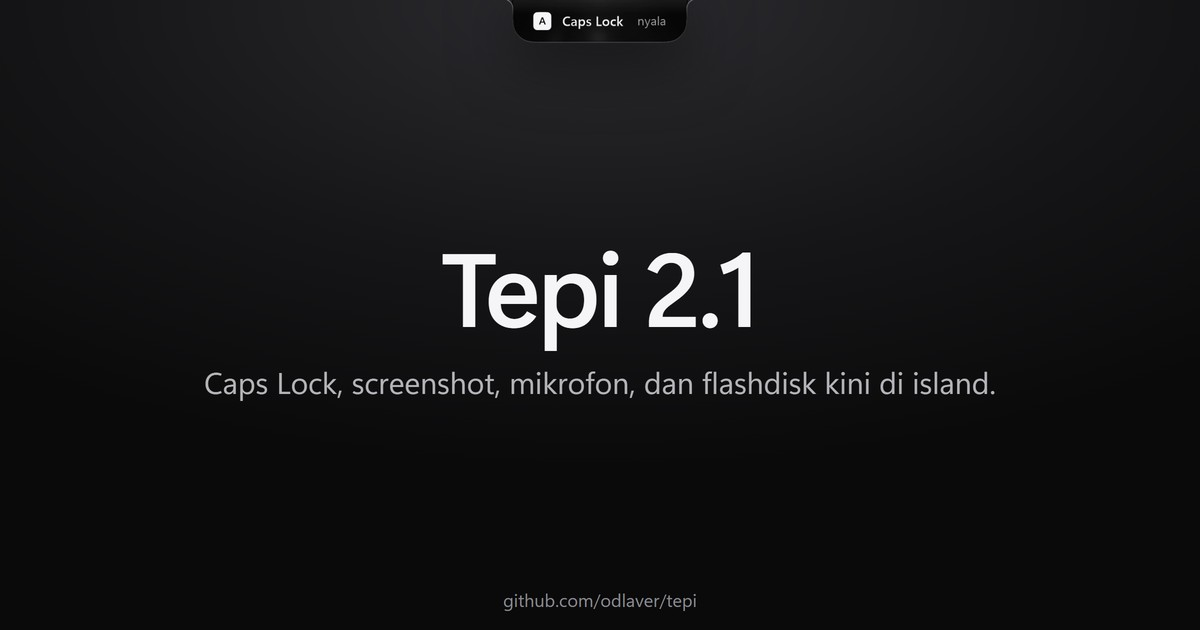
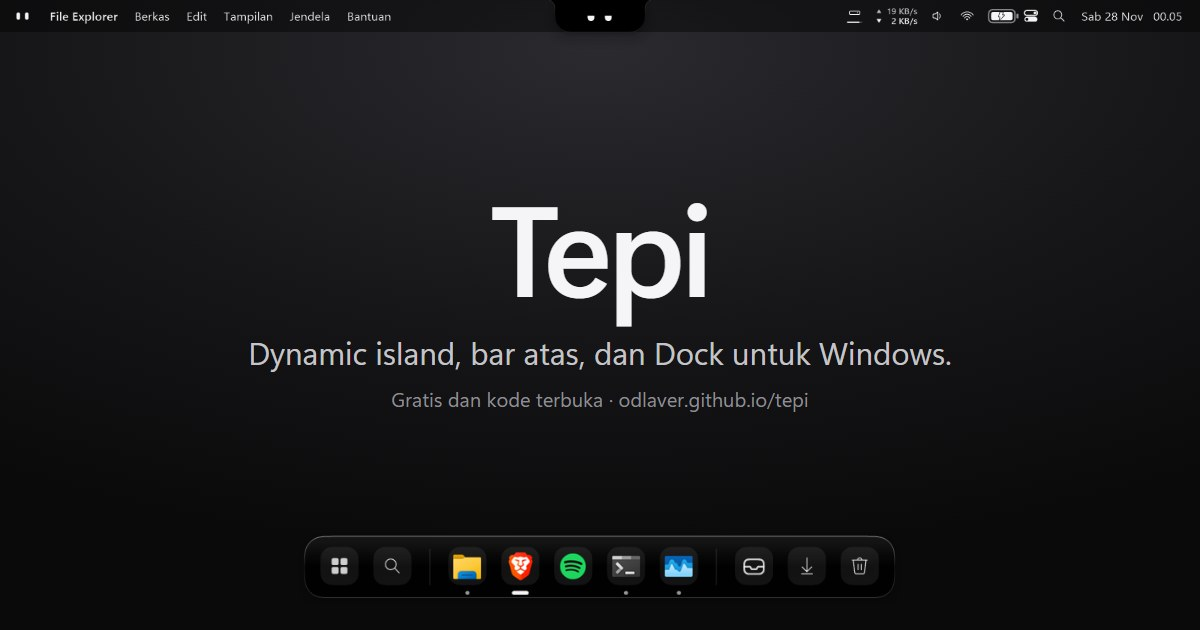
Situs ikut Tepi 2.6.3: OG umum tanpa versi dan daftar yang baru

diff --git a/index.html b/index.html
@@ -17,17 +17,17 @@
 <meta property="og:site_name" content="Tepi">
 <meta property="og:locale" content="id_ID">
 <meta property="og:locale:alternate" content="en_US">
-<meta property="og:title" content="Tepi 2.6.2: dynamic island dan Dock untuk Windows">
-<meta property="og:description" content="Baru di 2.6.2: perintah suara tanpa menekan tombol, dan panduan yang menyiapkan dikte serta AI langkah demi langkah. Gratis dan kode terbuka.">
+<meta property="og:title" content="Tepi: dynamic island, bar atas, dan Dock untuk Windows">
+<meta property="og:description" content="Island di tepi atas layar untuk lagu, pesan, agent coding, dan timer, plus bar atas dan Dock pilihan. Ringan, gratis, dan kode terbuka.">
 <meta property="og:url" content="https://odlaver.github.io/tepi/">
-<meta property="og:image" content="https://odlaver.github.io/tepi/assets/img/og-262.jpg">
+<meta property="og:image" content="https://odlaver.github.io/tepi/assets/img/og.jpg">
 <meta property="og:image:width" content="1200">
 <meta property="og:image:height" content="630">
-<meta property="og:image:alt" content="Tepi 2.6.2: island di tepi atas layar dan Dock di tepi bawah">
+<meta property="og:image:alt" content="Tepi: bar atas dengan island sebagai notch, dan Dock di tepi bawah">
 <meta name="twitter:card" content="summary_large_image">
-<meta name="twitter:title" content="Tepi 2.6.2: dynamic island dan Dock gratis untuk Windows 10 dan 11">
-<meta name="twitter:description" content="Baru di 2.6.2: perintah suara tanpa menekan tombol, dan panduan yang menyiapkan dikte serta AI langkah demi langkah. Gratis dan kode terbuka.">
-<meta name="twitter:image" content="https://odlaver.github.io/tepi/assets/img/og-262.jpg">
+<meta name="twitter:title" content="Tepi: dynamic island, bar atas, dan Dock gratis untuk Windows 10 dan 11">
+<meta name="twitter:description" content="Island di tepi atas layar untuk lagu, pesan, agent coding, dan timer, plus bar atas dan Dock pilihan. Ringan, gratis, dan kode terbuka.">
+<meta name="twitter:image" content="https://odlaver.github.io/tepi/assets/img/og.jpg">
 <script type="application/ld+json">
 {
   "@context": "https://schema.org",
@@ -37,7 +37,7 @@
   "description": "Dynamic island dan Dock untuk Windows 10 dan 11: lagu dan lirik, pesan, agent coding, tugas, timer, dikte, dan Dock yang bisa menggantikan taskbar.",
   "url": "https://odlaver.github.io/tepi/",
   "downloadUrl": "https://github.com/odlaver/tepi/releases/latest/download/Tepi.exe",
-  "softwareVersion": "2.6.2",
+  "softwareVersion": "2.6.3",
   "fileSize": "1869 KB",
   "operatingSystem": "Windows 10, Windows 11",
   "applicationCategory": "UtilitiesApplication",
@@ -45,7 +45,7 @@
   "isAccessibleForFree": true,
   "license": "https://github.com/odlaver/tepi/blob/main/LICENSE",
   "codeRepository": "https://github.com/odlaver/tepi",
-  "image": "https://odlaver.github.io/tepi/assets/img/og-262.jpg",
+  "image": "https://odlaver.github.io/tepi/assets/img/og.jpg",
   "screenshot": "https://odlaver.github.io/tepi/assets/img/p-ringkasan.webp",
   "offers": { "@type": "Offer", "price": "0", "priceCurrency": "IDR" },
   "author": {
@@ -77,7 +77,7 @@
 <main id="top">
   <section class="hero" id="hero">
     <div class="wrap hero-copy">
-      <p class="kicker"><button type="button" class="kicker-new js-news" aria-haspopup="dialog">Tepi 2.6.2<span class="kicker-cue" data-i18n="news.open">Lihat yang baru</span></button></p>
+      <p class="kicker"><button type="button" class="kicker-new js-news" aria-haspopup="dialog">Tepi 2.6.3<span class="kicker-cue" data-i18n="news.open">Lihat yang baru</span></button></p>
       <h1 data-i18n="hero.title">Dynamic island dan Dock untuk Windows.</h1>
       <p class="lead" data-i18n="hero.lead">Island di tepi atas untuk lagu, pesan, dan agent coding. Dock di tepi bawah untuk aplikasi, dan bisa menggantikan taskbar.</p>
       <div class="cta">
@@ -91,7 +91,7 @@
             <span data-i18n="cta.android">Unduh untuk Android</span>
           </a>
         </div>
-        <p class="meta"><span data-i18n="meta.free">Gratis</span> · v<span class="js-version"><span class="ver-main">2.6</span><span class="ver-tail">.2</span></span> · <span class="js-size">1.869 KB</span> · <span data-i18n="meta.os">Windows 10 dan 11</span><span class="js-dl-win" hidden> · <span class="js-n"></span> <span data-i18n="meta.dl">unduhan</span></span> · <a class="link" href="https://github.com/odlaver/tepi" data-i18n="hero.source">Kode sumber</a></p>
+        <p class="meta"><span data-i18n="meta.free">Gratis</span> · v<span class="js-version"><span class="ver-main">2.6</span><span class="ver-tail">.3</span></span> · <span class="js-size">1.976 KB</span> · <span data-i18n="meta.os">Windows 10 dan 11</span><span class="js-dl-win" hidden> · <span class="js-n"></span> <span data-i18n="meta.dl">unduhan</span></span> · <a class="link" href="https://github.com/odlaver/tepi" data-i18n="hero.source">Kode sumber</a></p>
         <p class="platform" hidden data-i18n="note.platform">Tepi tersedia untuk Windows 10 dan 11, serta Android 8 ke atas.</p>
       </div>
     </div>
@@ -100,7 +100,7 @@
         <img src="assets/img/p-ringkasan.webp?v=262" width="588" height="370" decoding="async" fetchpriority="high" alt="Panel Ringkasan Tepi: lagu yang diputar, agen yang bekerja, kelas berikutnya, dan pesan" data-i18n-alt="alt.hero">
         <img class="hero-dock" src="assets/img/dock.webp?v=262" width="1035" height="73" decoding="async" alt="Dock Tepi di tepi bawah: lagu, timer fokus, Start, aplikasi yang disematkan, tray, dan jam" data-i18n-alt="alt.dock">
       </div></div>
-      <figcaption class="cap" data-i18n="hero.update">Baru di 2.6.2: Dengarkan terus tanpa menekan tombol, perintah perangkat lewat suara, dan halaman yang menyiapkan dikte serta AI.</figcaption>
+      <figcaption class="cap" data-i18n="hero.update">Baru di 2.6.3: tampilan bar atas, jendela lirik, serta Unduhan dan Recycle Bin di Dock.</figcaption>
     </figure>
   </section>
 
@@ -429,7 +429,7 @@
         </li>
       </ul>
       <div class="perf-foot">
-        <p class="exe"><b class="js-size">1.869 KB</b> <span data-i18n="perf.exe">satu file exe, tanpa instalasi.</span></p>
+        <p class="exe"><b class="js-size">1.976 KB</b> <span data-i18n="perf.exe">satu file exe, tanpa instalasi.</span></p>
         <p class="note" data-i18n="perf.frame">Membuka panel dan pindah tab rata-rata 3–6 ms per frame. Saat pindah tab beruntun, frame terlama 14 ms, di bawah 16,7 ms untuk 60 fps; gambar pertama sebuah halaman bisa sampai 39 ms.</p>
         <p class="note" data-i18n="perf.note">Diukur 17 November 2026 di laptop Intel Core i3-1115G4 yang sedang menjalankan pekerjaan lain: tiap kondisi dibiarkan tenang 4 detik, lalu diukur 8 detik, median dari 3 putaran. Persen CPU dihitung terhadap satu core. Saat panel terbuka memori naik ke sekitar 18 sampai 27 MB, lalu turun lagi setelah panel ditutup.</p>
       </div>
@@ -491,14 +491,14 @@
           <span data-i18n="cta.android">Unduh untuk Android</span>
         </a>
       </div>
-      <p class="meta"><span data-i18n="meta.free">Gratis</span> · v<span class="js-version"><span class="ver-main">2.6</span><span class="ver-tail">.2</span></span> · <span class="js-size">1.869 KB</span><span class="js-dl-win" hidden> · <span class="js-n"></span> <span data-i18n="meta.dl">unduhan</span></span></p>
-      <p class="again" data-i18n="dl.again">Sudah memasang Tepi? Klik kanan ikon Tepi, lalu Perbarui ke Tepi 2.6.2. Berikutnya cukup Pengaturan › Tentang › Cek pembaruan.</p>
+      <p class="meta"><span data-i18n="meta.free">Gratis</span> · v<span class="js-version"><span class="ver-main">2.6</span><span class="ver-tail">.3</span></span> · <span class="js-size">1.976 KB</span><span class="js-dl-win" hidden> · <span class="js-n"></span> <span data-i18n="meta.dl">unduhan</span></span></p>
+      <p class="again" data-i18n="dl.again">Sudah memasang Tepi? Klik kanan ikon Tepi, lalu Perbarui ke Tepi 2.6.3. Berikutnya cukup Pengaturan › Tentang › Cek pembaruan.</p>
       <p class="platform" hidden data-i18n="note.platform">Tepi tersedia untuk Windows 10 dan 11, serta Android 8 ke atas.</p>
       <dl class="facts">
         <div><dt data-i18n="dl.req">Syarat</dt><dd data-i18n="dl.req.d">Windows 10 versi 2004 atau lebih baru, atau Windows 11, 64-bit. .NET Framework 4.8 sudah bawaan Windows.</dd></div>
         <div><dt>SmartScreen</dt><dd data-i18n="dl.ss.d">Exe belum ditandatangani, jadi Windows SmartScreen bisa memunculkan peringatan. Pilih More info, lalu Run anyway.</dd></div>
         <div><dt data-i18n="dl.apk">Tepi Android</dt><dd data-i18n="dl.apk.d">APK Lite untuk Android 8 ke atas, prosesor apa pun. Varian Full menambahkan terjemahan di HP dan khusus arm64. Di Android 13 ke atas, buka Info aplikasi › ⋮ › Izinkan setelan terbatas sebelum memberi akses notifikasi.</dd></div>
-        <div><dt>SHA-256 Tepi.exe</dt><dd class="sha"><code class="js-sha">FACE9C762CB2DB5E677A19AE87CB5702E63B478F27B1D5C7B27F936BD13320D9</code><button type="button" class="btn-ghost" id="copy" data-i18n="dl.copy">Salin</button></dd></div>
+        <div><dt>SHA-256 Tepi.exe</dt><dd class="sha"><code class="js-sha">F54EDC0FFFFE49DE853153A8A8B78D796740881EEB0F9EA6BCC08D14C0B6DF53</code><button type="button" class="btn-ghost" id="copy" data-i18n="dl.copy">Salin</button></dd></div>
       </dl>
       <a class="link" href="https://github.com/odlaver/tepi/releases" data-i18n="dl.releases">Semua rilis</a>
       <div class="coffee">
@@ -541,18 +541,14 @@
 
 <dialog class="qris news" id="news" aria-labelledby="news-title">
   <div class="mag mag-q"><div class="isle inline" id="isle-n" data-isle aria-hidden="true"></div></div>
-  <h2 class="qris-title" id="news-title"><span data-i18n="news.title">Yang baru di Tepi</span> 2.6.2</h2>
+  <h2 class="qris-title" id="news-title"><span data-i18n="news.title">Yang baru di Tepi</span> 2.6.3</h2>
   <p class="news-count js-dl-win" hidden><span data-i18n="news.count.a">Sudah diunduh</span> <b class="js-n"></b> <span data-i18n="news.count.b">kali, dari semua rilis Windows</span></p>
   <ul class="news-list">
-    <li><b data-i18n="news.1">Siapkan suara dan AI</b><span data-i18n="news.1.d">Halaman baru di Pengaturan yang mengecek mikrofon, mesin dikte, layanan teks, dan pengenal ucapan, lalu memandu yang kurang: key Groq gratis, model offline, Ollama, atau layanan lain.</span></li>
-    <li><b data-i18n="news.2">Dengarkan terus</b><span data-i18n="news.2.d">Ucapkan "Tepi, pause", "Tepi, open Spotify", atau "Tepi, turn on wifi" tanpa menekan tombol. Dikenali offline, dalam bahasa Inggris.</span></li>
-    <li><b data-i18n="news.3">Perintah perangkat dan lagu</b><span data-i18n="news.3.d">Suruh Tepi menyalakan Wi-Fi dan Bluetooth, mengatur kecerahan, membuka aplikasi, dan memutar lagu dari judulnya.</span></li>
-    <li><b data-i18n="news.4">Lagu favorit</b><span data-i18n="news.4.d">Tempel tautan YouTube di Pengaturan › Musik, lalu bilang "putar lagu biasa".</span></li>
-    <li><b data-i18n="news.5">Pesan yang menunjukkan jalan</b><span data-i18n="news.5.d">Saat dikte, rapat, atau Dengarkan terus belum bisa jalan, notifikasinya menyebut sebabnya. Klik untuk membuka tempat memperbaikinya.</span></li>
-    <li><b data-i18n="news.9">Dock lebih lengkap</b><span data-i18n="news.9.d">Pengaturan cepat bergaya Windows 11, pencarian Start yang paham singkatan seperti "wa" untuk WhatsApp dan bisa mencari berkas, serta jendela yang mengecil masuk ke ikonnya saat diminimalkan.</span></li>
-    <li><b data-i18n="news.7">Dari laporan pengguna</b><span data-i18n="news.7.d">Kirim saran terkirim lagi, Dock tetap di atas jendela lain, menu tertutup saat diklik di luar, klik ikon aplikasi yang di depan untuk meminimalkannya, dan tile Wi-Fi menyebut nama jaringan.</span></li>
-    <li><b data-i18n="news.8">Coret di Edit gambar</b><span data-i18n="news.8.d">Coret bebas di atas screenshot dengan pilihan warna dan ketebalan, lalu urungkan per langkah. Kontribusi dari movlution.</span></li>
-    <li><b data-i18n="news.6">Lebih halus</b><span data-i18n="news.6.d">Toggle dan Pengaturan bergerak lebih halus, lingkaran pengirim memakai warna aplikasinya, dan yang terhapus bisa diurungkan selama 5 detik.</span></li>
+    <li><b data-i18n="news.1">Tampilan bar atas</b><span data-i18n="news.1.d">Bar di tepi atas dengan menu aplikasi, status, dan jam, dan island jadi notch di tengahnya. Jendela berhenti di bawah bar, atau bar sembunyi sampai kursor menyentuh tepi atas. Pilih di Pengaturan › Dock; Biasa mengembalikan setelan lamamu.</span></li>
+    <li><b data-i18n="news.2">Jendela lirik</b><span data-i18n="news.2.d">Lirik pindah ke jendela sendiri yang bisa digeser dan diubah ukurannya, berlatar sampul album, kaca, atau tembus. Klik kanan satu baris untuk menyamakan waktunya.</span></li>
+    <li><b data-i18n="news.3">Volume, Rak, Unduhan, dan Recycle Bin di Dock</b><span data-i18n="news.3.d">Gulir di atas ikon aplikasi untuk mengatur volumenya. Jatuhkan berkas ke Rak atau Recycle Bin, dan klik Unduhan untuk sepuluh berkas terbaru.</span></li>
+    <li><b data-i18n="news.4">Disk dan kecepatan internet</b><span data-i18n="news.4.d">Widget baru di Dock dan bar atas: sisa ruang tiap disk dan kecepatan unduh serta unggah.</span></li>
+    <li><b data-i18n="news.5">Suruh Tepi mengatur Tepi</b><span data-i18n="news.5.d">Bilang "Tepi, buka pengaturan dock", "buka jendela lirik", "Tepi, pakai bar atas", atau "Tepi, buka rak". Jalan tanpa internet.</span></li>
     <li class="news-sub" data-i18n="news.android">Tepi Android 2.6.0</li>
     <li><b data-i18n="news.a1">Pas saat HP dimiringkan dan di tablet</b><span data-i18n="news.a1.d">Island melayang tepat di tengah atas, tidak lagi meleset dari kamera.</span></li>
     <li><b data-i18n="news.a2">Hilang di layar penuh</b><span data-i18n="news.a2.d">Selama video dan game, island hilang sepenuhnya dan tidak menghalangi sentuhan. Pesan menunggu lalu muncul sesudahnya, panggilan masuk tetap tampil.</span></li>
@@ -561,7 +557,7 @@
     <li><b data-i18n="news.a5">Lite dan Full</b><span data-i18n="news.a5.d">Lite di bawah 1 MB untuk Android 8 ke atas, prosesor apa pun. Full menambahkan terjemahan di HP. Ada juga Suruh Tepi, mode hemat, dan cek pembaruan.</span></li>
   </ul>
   <form method="dialog" class="qris-actions">
-    <a class="btn btn-md js-dl" data-goatcounter-click="unduh-news" href="https://github.com/odlaver/tepi/releases/latest/download/Tepi.exe" data-i18n="news.dl">Unduh Tepi 2.6.2</a>
+    <a class="btn btn-md js-dl" data-goatcounter-click="unduh-news" href="https://github.com/odlaver/tepi/releases/latest/download/Tepi.exe" data-i18n="news.dl">Unduh Tepi 2.6.3</a>
     <button type="submit" class="btn-ghost btn-md" data-i18n="news.close" autofocus>Tutup</button>
   </form>
   <a class="link news-all" href="https://github.com/odlaver/tepi/releases/latest" data-i18n="news.all">Catatan rilis lengkap di GitHub</a>

diff --git a/assets/js/main.js b/assets/js/main.js
@@ -19,29 +19,21 @@
     "note.platform": "Tepi is available for Windows 10 and 11, and Android 8 or later.",
     "cta.android": "Download for Android",
     "hero.source": "Source code",
-    "hero.update": "New in 2.6.2: Always listening without pressing a key, device commands by voice, and a page that sets up dictation and AI.",
+    "hero.update": "New in 2.6.3: the top bar look, a lyric window, and Downloads and Recycle Bin in the Dock.",
     "news.open": "See what's new",
     "news.title": "What's new in Tepi",
     "news.count.a": "Downloaded",
     "news.count.b": "times, across every Windows release",
-    "news.1": "Voice and AI setup",
-    "news.1.d": "A new Settings page checks the microphone, dictation engine, text service, and speech recognizer, then walks you through what's missing: a free Groq key, an offline model, Ollama, or another service.",
-    "news.2": "Always listening",
-    "news.2.d": "Say \"Tepi, pause\", \"Tepi, open Spotify\", or \"Tepi, turn on wifi\" without pressing a key. Recognized offline, in English.",
-    "news.3": "Device commands and songs",
-    "news.3.d": "Ask Tepi to turn Wi-Fi and Bluetooth on, set the brightness, open apps, and play a song by its title.",
-    "news.4": "Favorite music",
-    "news.4.d": "Paste a YouTube link in Settings › Music, then say \"play my usual song\".",
-    "news.5": "Messages that point the way",
-    "news.5.d": "When dictation, meetings, or Always listening can't run, the notice says why. Click it to open the place to fix it.",
-    "news.9": "A fuller Dock",
-    "news.9.d": "Windows 11 style quick settings, Start search that understands short words like \"wa\" for WhatsApp and finds files, and windows that shrink into their icon when minimized.",
-    "news.7": "From user reports",
-    "news.7.d": "Send feedback works again, the Dock stays above other windows, menus close when you click outside, clicking the app in front minimizes it, and the Wi-Fi tile names the network.",
-    "news.8": "Draw in Edit picture",
-    "news.8.d": "Draw freely on a screenshot with a choice of colour and thickness, and undo step by step. Contributed by movlution.",
-    "news.6": "Smoother",
-    "news.6.d": "Toggles and Settings move more smoothly, sender circles use the app's colour, and removed items can be undone for 5 seconds.",
+    "news.1": "Top bar look",
+    "news.1.d": "A bar along the top edge with app menus, status, and the clock, with the island as its notch. Windows stop below the bar, or the bar hides until the pointer touches the top edge. Pick it in Settings › Dock; Normal brings your old setup back.",
+    "news.2": "Lyric window",
+    "news.2.d": "Lyrics move to their own window that you can drag and resize, over the album cover, glass, or nothing at all. Right-click a line to sync its timing.",
+    "news.3": "Volume, Shelf, Downloads, and Recycle Bin in the Dock",
+    "news.3.d": "Scroll over an app icon to set its volume. Drop files on the Shelf or the Recycle Bin, and click Downloads for the ten newest files.",
+    "news.4": "Disk and internet speed",
+    "news.4.d": "New widgets in the Dock and the top bar: free space on each disk, and download and upload speed.",
+    "news.5": "Suruh Tepi controls Tepi",
+    "news.5.d": "Say \"Tepi, buka pengaturan dock\", \"buka jendela lirik\", \"Tepi, pakai bar atas\", or \"Tepi, buka rak\". Works offline.",
     "news.android": "Tepi Android 2.6.0",
     "news.a1": "Fits sideways and on tablets",
     "news.a1.d": "The island floats exactly at the top centre instead of missing the camera.",
@@ -54,7 +46,7 @@
     "news.a5": "Lite and Full",
     "news.a5.d": "Lite is under 1 MB for Android 8 or later on any processor. Full adds on-device translation. Also new: Ask Tepi, a power saving mode, and update checks.",
     "news.all.android": "Android release notes",
-    "news.dl": "Download Tepi 2.6.2",
+    "news.dl": "Download Tepi 2.6.3",
     "news.close": "Close",
     "news.all": "Full release notes on GitHub",
     "dock.title": "The bottom edge, too.",
@@ -303,7 +295,7 @@
     "dl.req": "Requirements",
     "dl.req.d": "Windows 10 version 2004 or later, or Windows 11, 64-bit. .NET Framework 4.8 ships with Windows.",
     "dl.ss.d": "The exe is not signed yet, so Windows SmartScreen may show a warning. Choose More info, then Run anyway.",
-    "dl.again": "Already have Tepi? Right-click the Tepi icon, then Update to Tepi 2.6.2. After that, Settings › About › Check for updates is enough.",
+    "dl.again": "Already have Tepi? Right-click the Tepi icon, then Update to Tepi 2.6.3. After that, Settings › About › Check for updates is enough.",
     "dl.copy": "Copy",
     "dl.copied": "Copied",
     "dl.releases": "All releases",
@@ -905,7 +897,7 @@
   if (location.hash === "#kopi") setTimeout(openCoffee, 0);
 
   // What's new: once per version, then from the kicker
-  var NEWS_V = "2.6.2+a2.6.0";
+  var NEWS_V = "2.6.3+a2.6.0";
   var news = $("#news");
   var fresh = new TI.Island($("#isle-n"));
   fresh.eyes.base = "happy";
